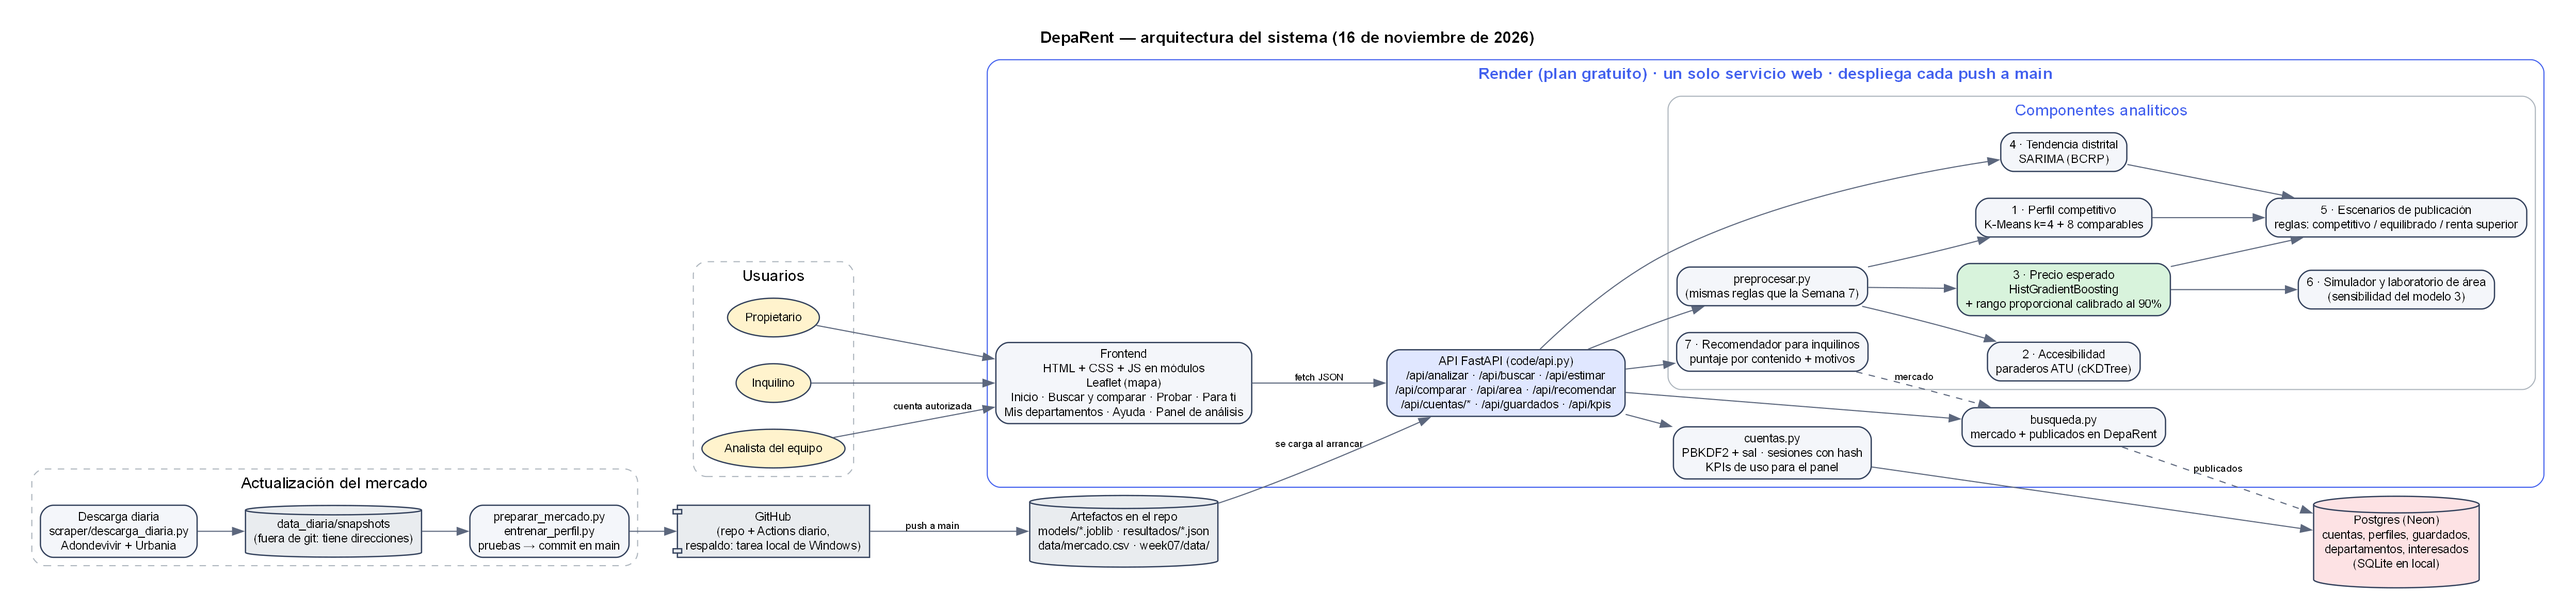
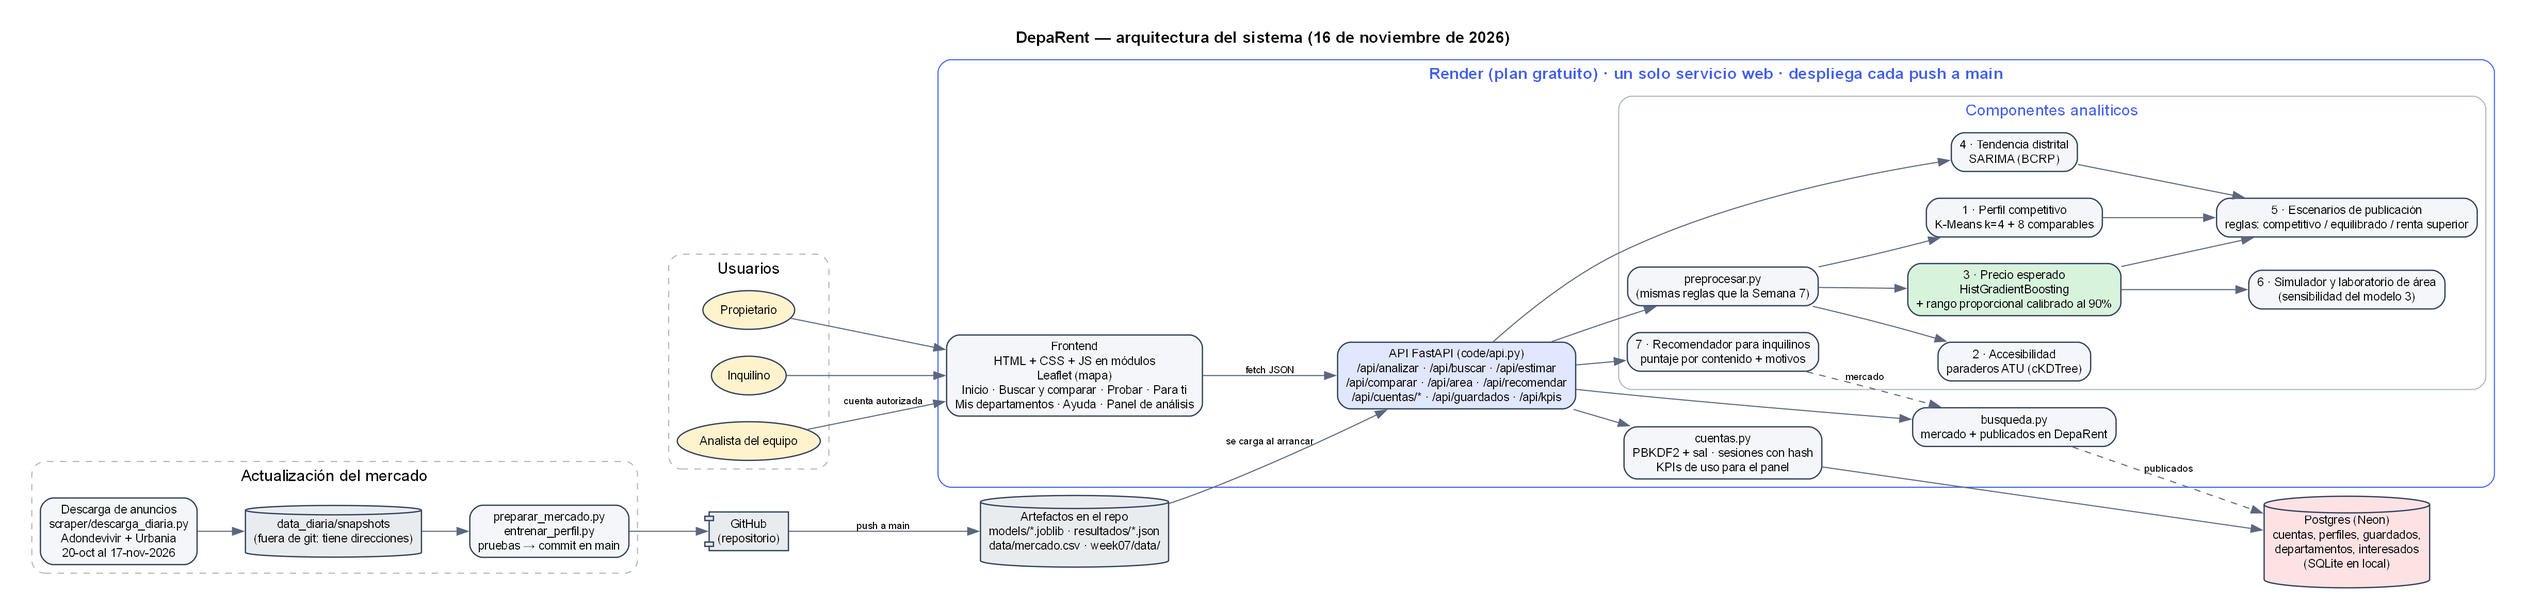
chore: quitar la actualización automática del mercado y dar por terminada la descarga
El workflow de GitHub Actions nunca llegó a funcionar (los portales responden 403 a los
servidores de GitHub) y la tarea programada local ya no se usará. La descarga de anuncios
se hizo del 20-oct al 17-nov-2026: 18 días, 8 completos con 6,300-6,900 anuncios. Los
documentos y diagramas ahora lo describen así y dicen que el mercado de la app es la
captura del 9-nov.

diff --git a/scraper/descarga_diaria.py b/scraper/descarga_diaria.py
@@ -1,4 +1,4 @@
-"""Descarga diaria de anuncios de alquiler de departamentos en Lima (Adondevivir y Urbania).
+"""Descarga de anuncios de alquiler de departamentos en Lima (Adondevivir y Urbania).
 
 Mismo método que la Semana 4 (ver deliveries/week04/acquisition.md): se lee el JSON
 `window.__PRELOADED_STATE__` de cada página del catálogo y se mapean los campos CFT.

diff --git a/README.md b/README.md
@@ -61,8 +61,7 @@ DepaRent/
 ├── README.md                      ← este archivo
 ├── requirements.txt               dependencias de los notebooks (semanas 6–7)
 ├── render.yaml                    despliegue en Render
-├── .github/workflows/             actualización diaria del mercado (GitHub Actions)
-├── scraper/                       descarga diaria de anuncios (Adondevivir, Urbania)
+├── scraper/                       descarga de anuncios (Adondevivir, Urbania), 20-oct al 17-nov
 └── deliveries/
     ├── week04/   adquisición de datos: datos crudos, diccionario, calidad de datos
     ├── week05/   propuesta, Data Product Canvas, requisitos, presentación
@@ -155,9 +154,10 @@ Abrir `deliveries/week07/code/EDA_week07.ipynb` y ejecutar todo; lee los crudos 
 | `DEPARENT_ORIGENES` | Dominios permitidos si el frontend se sirve aparte |
 
 ### Despliegue
-Render con `render.yaml` (un solo servicio que sirve API y frontend). El mercado se actualiza con
-`.github/workflows/actualizar-mercado.yml` o, si los portales bloquean la nube, con `scraper/programar_tarea.ps1`
-en local. Detalle en [`deliveries/week10/deployed_url.txt`](deliveries/week10/deployed_url.txt).
+Render con `render.yaml` (un solo servicio que sirve API y frontend). El mercado de la app sale de la descarga de
+anuncios con `scraper/descarga_diaria.py`, del 20-oct al 17-nov-2026 (18 días de descarga, 8 completos con 6,300–6,900 anuncios); se prepara con
+`preparar_mercado.py` y `entrenar_perfil.py` y se sube a `main`. Detalle en
+[`deliveries/week10/deployed_url.txt`](deliveries/week10/deployed_url.txt).
 
 ---
 
@@ -179,7 +179,7 @@ Detalle: [`deliveries/week07/planning/team_responsibilities.md`](deliveries/week
 - El modelo aprende **precios pedidos** en anuncios, no precios de contrato.
 - El rango de precio tiene radio fijo (S/ 1,357): bien calibrado en promedio, menos en departamentos de lujo.
 - Distritos con pocos anuncios tienen error inestable.
-- Los portales bloquean a veces la descarga automática (error 403); la app usa la última captura completa.
+- El mercado de la app es una foto fija (captura del 9-nov-2026); no se actualiza solo.
 - Render gratuito se duerme tras 15 min sin visitas.
 
 Más detalle en [`deliveries/week12/EvaluationReport.md`](deliveries/week12/EvaluationReport.md) §8.

diff --git a/deliveries/week10/PrototypeReport.md b/deliveries/week10/PrototypeReport.md
@@ -40,7 +40,7 @@ Todo lo listado funciona hoy en la versión desplegada; las capturas están en `
 | Prueba sin cuenta con tres casos de ejemplo | ☑ | `#/probar` | `04` |
 | Validación temporal con el mercado de octubre | ☑ | `code/validar_octubre.py`, `resultados/validacion_octubre/` | — |
 | Despliegue en Render con base de datos persistente (Postgres en Neon) | ☑ | `render.yaml`, `code/cuentas.py` | — |
-| Actualización diaria del mercado con GitHub Actions | ◐ | `.github/workflows/actualizar-mercado.yml` | ver §5 |
+| Descarga de anuncios para el mercado de la app (del 20-oct al 17-nov-2026 (18 días de descarga, 8 completos con 6,300–6,900 anuncios)) | ☑ | `scraper/descarga_diaria.py`, `code/preparar_mercado.py` | — |
 
 ## 3. Arquitectura del sistema
 ```mermaid
@@ -60,7 +60,7 @@ flowchart LR
     C --> DB[("Postgres (Neon) en producción · SQLite en local")]
     MOD[("models/*.joblib")] --> M1 & M3
     DAT[("data/mercado.csv · week07/data/")] --> B & M2
-    GH[GitHub Actions diario] -. commit del mercado .-> DAT
+    SC[scraper/descarga_diaria.py] -. preparar_mercado.py .-> DAT
 ```
 
 - **Un solo servicio.** En Render, la API FastAPI sirve también el frontend estático; no hay servidor aparte.
@@ -110,9 +110,8 @@ referencia distrital S/ 3,500, con 457 anuncios de entrenamiento en el distrito.
 - **Paraderos ATU de mayo de 2021**; la red actual puede diferir.
 - **BCRP** no cubre todos los distritos: el 16.3 % de los departamentos usa la serie general.
 - **Clustering débil** (silhouette 0.21): los perfiles orientan, no separan mercados.
-- **Actualización diaria bloqueada.** Desde el 25-oct los portales responden 403 a los servidores de GitHub. La tarea
-  falla sin publicar nada y la app sigue con el mercado del 23-oct. El respaldo es la tarea programada local
-  (`scraper/programar_tarea.ps1`) más `git push`.
+- **Mercado fijo.** La app usa la última captura preparada (9-nov-2026); para actualizarlo hay que correr la descarga,
+  `preparar_mercado.py` y `entrenar_perfil.py`, y subir el resultado.
 - **Plan gratuito de Render.** El servicio se duerme tras 15 minutos sin visitas; la primera carga tarda 30–60 s.
 - **Prototipo académico.** No hay recuperación de contraseña, verificación de correo ni moderación de mensajes.
 

diff --git a/README_PROFESOR.md b/README_PROFESOR.md
@@ -19,7 +19,7 @@ La revisión local del 13 de noviembre, con cambios, métricas y pasos pendiente
 
 | Pedido | Dónde está |
 |---|---|
-| **Código completo y actualizado** | Producto (API + modelos): [`deliveries/week10/code/`](deliveries/week10/code/) · Interfaz web: [`deliveries/week10/frontend/`](deliveries/week10/frontend/) · Descarga diaria de anuncios: [`scraper/`](scraper/) · Índice del código por etapa: [`deliveries/week15/code/README.md`](deliveries/week15/code/README.md) |
+| **Código completo y actualizado** | Producto (API + modelos): [`deliveries/week10/code/`](deliveries/week10/code/) · Interfaz web: [`deliveries/week10/frontend/`](deliveries/week10/frontend/) · Descarga de anuncios: [`scraper/`](scraper/) · Índice del código por etapa: [`deliveries/week15/code/README.md`](deliveries/week15/code/README.md) |
 | **Base de datos utilizada** | Datos crudos (septiembre): [`deliveries/week04/data/`](deliveries/week04/data/) · Datos procesados: [`deliveries/week07/data/`](deliveries/week07/data/) · Mercado actual de la app (captura del 9-nov-2026): [`deliveries/week10/data/mercado.csv`](deliveries/week10/data/) · Diccionario de datos: [`deliveries/week07/data_dictionary.csv`](deliveries/week07/data_dictionary.csv) · Base de cuentas: Postgres (Neon) en producción y SQLite en local |
 | **Notebooks o scripts de entrenamiento** | Notebooks de EDA y preprocesamiento: [`deliveries/week06/code/EDA_week06_v5.ipynb`](deliveries/week06/code/), [`deliveries/week07/code/EDA_week07.ipynb`](deliveries/week07/code/) · Notebook del profesor: [`deliveries/week10/code/Notebook_docente.ipynb`](deliveries/week10/code/) · Scripts: `entrenar.py` (precio), `entrenar_perfil.py` (K-Means) y `entrenar_tendencia.py` (SARIMA) en `deliveries/week10/code/` |
 | **Modelo entrenado** | [`deliveries/week10/models/`](deliveries/week10/models/) (`modelo_docente.joblib`, `perfil_competitivo.joblib`) · Cómo cargarlos y sus métricas: [`deliveries/week10/models/metadata.md`](deliveries/week10/models/metadata.md) |

diff --git a/scraper/README.md b/scraper/README.md
@@ -1,22 +1,19 @@
-# Descarga diaria de anuncios
+# Descarga de anuncios
 
-Repite cada día la adquisición de la Semana 4 (`deliveries/week04/acquisition.md`) en Adondevivir y
-Urbania, para tener varias capturas en el tiempo y poder validar el modelo con anuncios posteriores.
+Repite la adquisición de la Semana 4 (`deliveries/week04/acquisition.md`) en Adondevivir y Urbania, para tener
+varias capturas en el tiempo y poder validar el modelo con anuncios posteriores.
 
-## Ejecutar a mano
+## Descargas hechas
+Del **20 de octubre al 17 de noviembre de 2026**: 18 días de descarga, **8 completos** (20, 21, 23, 25 y 26 de
+octubre; 9, 10 y 17 de noviembre), cada uno con 6,300–6,900 anuncios. En total, **12,235 anuncios distintos**.
+La app usa la captura del 9 de noviembre. La descarga se dio por terminada el 17 de noviembre.
+
+## Ejecutar
 ```powershell
-py -3 scraper\descarga_diaria.py                     # descarga completa (~6-8 min)
+py -3 scraper\descarga_diaria.py                     # descarga completa (~10-15 min)
 py -3 scraper\descarga_diaria.py --max-paginas 2 --sin-historial   # prueba rápida
 ```
 No requiere instalar librerías (solo Python 3 estándar).
-
-## Programarla todos los días
-```powershell
-powershell -ExecutionPolicy Bypass -File scraper\programar_tarea.ps1            # 07:00 por defecto
-powershell -ExecutionPolicy Bypass -File scraper\programar_tarea.ps1 -Hora 06:30
-```
-Si la PC está apagada a esa hora, la descarga corre apenas se encienda. Para quitarla:
-`Unregister-ScheduledTask -TaskName "DepaRent descarga diaria" -Confirm:$false`
 
 ## Qué se guarda (`data_diaria/`, fuera de git)
 | Archivo | Contenido |

diff --git a/deliveries/week12/EvaluationReport.md b/deliveries/week12/EvaluationReport.md
@@ -368,10 +368,10 @@ foto del mercado del 9 de noviembre, no una lista de ofertas vigentes.
 - **Perfiles débiles** (silhouette 0.21): orientan, no segmentan.
 - **Tendencia** con poca evidencia de validación (4 trimestres) y derivada del precio de venta, no del alquiler.
 - **Paraderos ATU de 2021.** La accesibilidad usa el centro aproximado del distrito si no se marca la ubicación.
-- **Descarga diaria inestable.** Los portales bloquean parte de las descargas (error 403); del 28-oct al 8-nov
-  no hubo una captura completa.
+- **Capturas de mercado.** La descarga de anuncios se hizo del 20-oct al 17-nov-2026 (18 días de descarga, 8 completos con 6,300–6,900 anuncios); entre el 28-oct y el 8-nov no hubo una
+  captura completa, por eso la validación de noviembre usa la del 9-nov.
 - **Recomendador evaluado sin usuarios reales.** Se midió con 60 perfiles de prueba; falta saber si a personas reales les gustan sus recomendaciones.
-- **Sin pruebas con usuarios todavía.** La utilidad está argumentada con casos de estudio, no medida.
+- **Pocas pruebas con usuarios.** Cuatro sesiones (§6c) orientan sobre la utilidad, pero no permiten generalizar.
 
 ---
 

diff --git a/deliveries/week10/data/README.md b/deliveries/week10/data/README.md
@@ -28,11 +28,7 @@ Desde `deliveries/week10/code`:
 
 Después hay que reiniciar la API, que carga el mercado al arrancar.
 
-## Actualización automática
-Desde que `main` tenga el flujo `.github/workflows/actualizar-mercado.yml`, el mercado se actualiza solo cada día a las
-07:00 de Lima en los servidores de GitHub: descarga → `preparar_mercado.py` → `entrenar_perfil.py` → pruebas → commit.
-Render vuelve a desplegar con ese commit. No hay que subir datos a mano ni tener la PC encendida. Los pasos para
-activarlo y sus límites están en `../deployed_url.txt`.
-
-Respaldo si los portales bloquean la descarga desde la nube: la tarea programada local (`scraper/programar_tarea.ps1`)
-seguida de los dos comandos de arriba y un `git push`.
+## De dónde salen las capturas
+La descarga de anuncios se hizo con `scraper/descarga_diaria.py` del 20-oct al 17-nov-2026 (18 días de descarga, 8 completos con 6,300–6,900 anuncios).
+Las capturas quedan en `data_diaria/snapshots/` (fuera de git). El mercado actual de la app usa la del 9-nov-2026.
+Después de preparar un mercado nuevo hay que subirlo a `main` para que Render lo despliegue.

diff --git a/deliveries/week15/EstadoProyecto.md b/deliveries/week15/EstadoProyecto.md
@@ -95,8 +95,8 @@ Casos completos en `deliveries/week12/EvaluationReport.md` §7.
 
 ## 6. Qué dificultades tenemos actualmente
 
-- **Bloqueo de los portales:** desde el 25-oct Urbania responde error 403 a GitHub Actions, por lo que la
-  actualización diaria automática falla; usamos la descarga local como respaldo.
+- **Mercado fijo:** la descarga de anuncios se hizo del 20-oct al 17-nov-2026 (18 días de descarga, 8 completos con 6,300–6,900 anuncios); la app usa la captura del
+  9-nov y no se actualiza sola.
 - **Rango de precio en alquileres altos:** el rango ahora es proporcional al precio estimado (antes fijo, ±S/ 1,357). En noviembre la cobertura desde S/ 7,000 subió de 34.2% a 65.8%, aún lejos del 90% nominal; en alquileres menores a S/ 1,500 bajó de 99.2% a 91.3%.
 - **Precios pedidos, no de contrato**, y distritos con pocos anuncios con error inestable.
 - **Render gratuito** se duerme tras 15 minutos; la primera visita tarda 30–60 s.

diff --git a/deliveries/week15/data/README.md b/deliveries/week15/data/README.md
@@ -9,7 +9,7 @@ obtenerlos de nuevo. **Revisar al cierre** (antes del 18-nov) que el mercado ten
 | `deliveries/week04/data/departamentos_alquiler_lima.csv` | Adondevivir y Urbania (anuncios públicos) | 14-sep-2026 | `deliveries/week04/acquisition.md` |
 | `deliveries/week04/data/dataset_alquileres_trimestre_bcrp.csv` | BCRP, series trimestrales de precio y PER | 2013-T3 a 2026-T1 | `deliveries/week04/acquisition.md` |
 | `deliveries/week04/data/paraderos.csv` | ATU, inventario de paraderos | mayo de 2021 | `deliveries/week04/acquisition.md` |
-| `data_diaria/snapshots/AAAA-MM-DD.csv.gz` | Descarga diaria de los mismos portales | desde el 20-oct-2026 | `scraper/descarga_diaria.py` · **no se sube** (tiene direcciones) |
+| `data_diaria/snapshots/AAAA-MM-DD.csv.gz` | Descarga de los mismos portales (8 capturas completas) | 20-oct al 17-nov-2026 | `scraper/descarga_diaria.py` · **no se sube** (tiene direcciones) |
 
 ## Datos procesados
 | Archivo | Uso |

diff --git a/deliveries/week10/README.md b/deliveries/week10/README.md
@@ -104,8 +104,8 @@ Versión Streamlit del profesor (opcional): `..\..\..\.venv\Scripts\python.exe -
 
 ## Despliegue
 Publicado en **https://deparent.onrender.com**. Configurado para Render con `render.yaml` (raíz del repo): un solo servicio que sirve la API y el frontend, con
-`code/requirements-deploy.txt`. El mercado se actualiza solo cada día con GitHub Actions
-(`.github/workflows/actualizar-mercado.yml`). Pasos y límites del plan gratuito en `deployed_url.txt`.
+`code/requirements-deploy.txt`. El mercado sale de la descarga de anuncios con `scraper/descarga_diaria.py`
+del 20-oct al 17-nov-2026 (18 días de descarga, 8 completos con 6,300–6,900 anuncios) y hoy usa la captura del 9-nov. Pasos y límites del plan gratuito en `deployed_url.txt`.
 
 ## Credenciales y datos
 No se requieren variables de entorno ni credenciales para el uso local. Variables opcionales: `DEPARENT_DB` (ruta de

diff --git a/deliveries/week15/code/README.md b/deliveries/week15/code/README.md
@@ -8,9 +8,7 @@ inferencia y evaluación**. Las rutas son relativas a la raíz del repositorio.
 | Script | Qué hace |
 |---|---|
 | `deliveries/week04/acquisition.md` | Cómo se obtuvo la captura de septiembre (Adondevivir, Urbania, BCRP, ATU) |
-| `scraper/descarga_diaria.py` | Descarga diaria de anuncios de Adondevivir y Urbania → `data_diaria/` (fuera de git) |
-| `scraper/programar_tarea.ps1` | Programa la descarga diaria en Windows |
-| `.github/workflows/actualizar-mercado.yml` | La misma descarga diaria en GitHub Actions (hoy bloqueada por los portales, error 403) |
+| `scraper/descarga_diaria.py` | Descarga de anuncios de Adondevivir y Urbania → `data_diaria/` (fuera de git); se usó del 20-oct al 17-nov-2026 (18 días de descarga, 8 completos con 6,300–6,900 anuncios) |
 
 ## 2. Preprocesamiento
 | Script | Qué hace |
